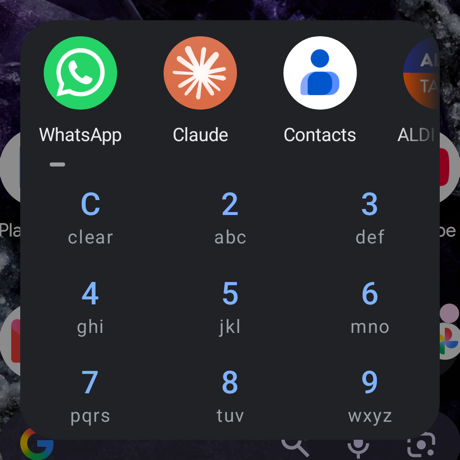
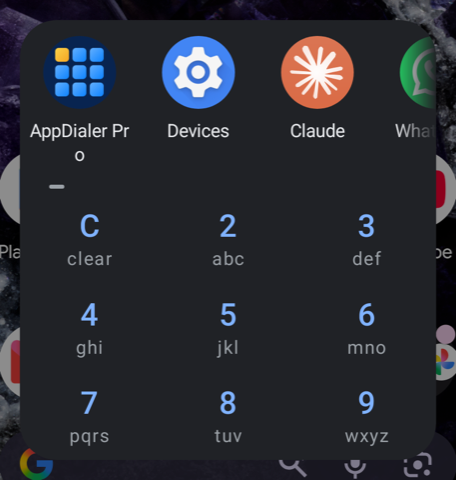
README: new screenshots, current numbers, settings search details

diff --git a/README.md b/README.md
@@ -2,18 +2,19 @@
 
 A tiny Android app launcher that does one thing: find an app (or a settings page) with a T9 keypad and open it.
 
-| Recent apps | `6277` → Maps | `46` → **G**mail, **Go**ogle… |
-|---|---|---|
-| <img src="docs/empty.png" width="260"> | <img src="docs/maps.png" width="260"> | <img src="docs/go.png" width="260"> |
+| Recent apps | `6277` → Maps | `46` → **G**mail, **Go**ogle… | `2583` → Bluetooth settings |
+|---|---|---|---|
+| <img src="docs/empty.png" width="200"> | <img src="docs/maps.png" width="200"> | <img src="docs/go.png" width="200"> | <img src="docs/blue.png" width="200"> |
 
 I used [AppDialer](https://play.google.com/store/apps/details?id=name.pilgr.appdialer.pro) for years in place of the
-assistant. It is not maintained any more, so I wrote this replacement. It keeps only the T9 app search and focuses on
-speed, size and a small RAM and CPU footprint.
+assistant. It is not maintained any more, so I wrote this replacement. It keeps only the T9 search (apps and settings
+pages) and focuses on speed, size and a small RAM and CPU footprint.
 
-- About 23 KB APK. Plain Java, no libraries, no AndroidX.
+- About 26 KB APK. Plain Java, no libraries, no AndroidX.
 - The whole UI is one custom `View`: no layouts, no adapters.
 - Drawn in software: for a panel this small it is faster than starting a GPU context and uses far less memory.
-- On my Pixel 8: opens in about 30 ms when the process is warm and 90 ms from cold; about 11 MB PSS while open.
+- On my Pixel 8: opens in about 35 ms when the process is warm and 95 ms from cold, with about 18 MB of RAM (see
+  [Performance](#performance)).
 - The app list and the icons are cached on disk, so results show at once, even on a cold start.
 - The app list is only rescanned when Android reports a package change. That check runs in the background on every
   open, so it never delays the panel.
@@ -25,34 +26,34 @@ speed, size and a small RAM and CPU footprint.
 Measured on my Pixel 8 (Android 17): the median of 8 cold and 8 warm opens, with `am start -W` for the time and
 `/proc/<pid>/stat` for the CPU time; RAM is the PSS from `dumpsys meminfo`.
 
-| | AppDialer Pro 7.5.1 | T9 App Launcher 1.0.0 | T9 App Launcher 1.1.0 |
-|---|---:|---:|---:|
-| APK size | 2,203 KB | 21 KB | **23 KB** |
-| Cold open, time | 124 ms | 105 ms | **96 ms** |
-| Cold open, CPU time | 250 ms | 170 ms | **50 ms** |
-| Warm open, time | 61 ms | 54 ms | **42 ms** |
-| Warm open, CPU time | 90 ms | 30 ms | **20 ms** |
-| RAM while open | 119 MB | 36 MB | **18 MB** |
-| RAM after close | 57 MB | 22 MB | **19 MB** |
+| | AppDialer Pro 7.5.1 | T9 App Launcher 1.0.0 | T9 App Launcher 1.1.0 | `main` |
+|---|---:|---:|---:|---:|
+| APK size | 2,203 KB | 21 KB | 23 KB | 26 KB |
+| Cold open, time | 124 ms | 105 ms | 96 ms | 93 ms |
+| Cold open, CPU time | 250 ms | 170 ms | 50 ms | 50 ms |
+| Warm open, time | 61 ms | 54 ms | 42 ms | 35 ms |
+| Warm open, CPU time | 90 ms | 30 ms | 20 ms | 20 ms |
+| RAM while open | 119 MB | 36 MB | 18 MB | 18 MB |
+| RAM after close | 57 MB | 22 MB | 19 MB | 21 MB |
 
 "Cold" means the process was not running; "warm" means it was still in memory.
 
 ## How it works
 
 - Type with the keypad (`2`–`9`). `C` clears; on an empty query it closes the panel.
-- An app matches when the keys match:
+- An app or settings page matches when the keys match:
   - the start of its name (`432` → **Hea**rts),
   - the start of any word (`6277` → Google **Maps**),
   - the first letters of words (`46` → **G**oogle **M**aps), or
   - any part of its name (3 or more keys).
 - The matched letters are shown in blue.
-- The apps I opened most recently from here come first.
-- Tap an app to open it. Long-press it to open its App info.
+- What I opened most recently from here comes first; then the best matches, apps before settings pages.
+- Tap a result to open it. Long-press an app to open its App info.
 - Apps from the work profile are included.
 - Settings pages are searchable too, read from the phone's own Settings app: every page it lets other apps open, with
-  its translated title (about 160 on my Pixel 8). The words of the page's internal name are searchable as well, so
-  `blue` finds the Bluetooth page even where it is titled "Devices". Settings pages appear in the empty panel only
-  once you used them.
+  its translated title (about 160 on my Pixel 8). Pages that need an app to be chosen first are left out. The words of
+  the page's internal class name are searchable as well: Pixel titles the Bluetooth page "Devices", but `blue` finds it
+  and shows it as **Blue**tooth. Settings pages appear in the empty panel only once you used them.
 - Long names wrap to a second line at any character, so no space is lost to word wrapping.
 
 ## Open it with the assistant gesture
